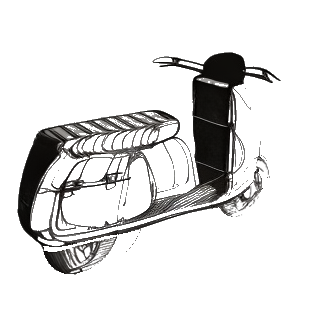
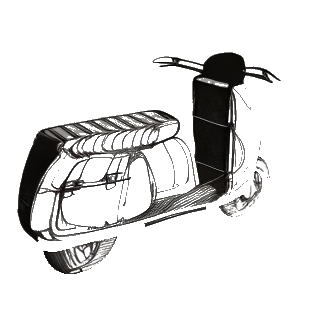
you need to remove slightly more mask

diff --git a/controlNet_process/18_output_final_image.py b/controlNet_process/18_output_final_image.py
@@ -12,8 +12,10 @@ Per view:
       - silhouette = alpha>0 OR non-white
       - resize silhouette to ORIGINAL bbox size
       - paste silhouette into canvas at ORIGINAL bbox location
-   B) Remove: paint white where removal mask is 1
-   C) Insert:
+   B) (Improved) Dilate removal mask by N pixels to remove halos
+   C) Remove: paint white where removal mask is 1
+   D) Save intermediate: removed_original.png
+   E) Insert:
       - load component: sketch/segmentation_original_image/view_{x}/{label}.png
       - resize component to NEW bbox size
       - paste into NEW bbox location
@@ -21,13 +23,14 @@ Per view:
         * if component has alpha, alpha composite directly
 
 Output:
+  sketch/final_results/view_{x}/removed_original.png
   sketch/final_results/view_{x}/final_image.png
 """
 
 import os
 import json
 import argparse
-from typing import Any, List, Tuple, Optional
+from typing import Any, List, Tuple, Dict
 
 import numpy as np
 
@@ -63,6 +66,12 @@ def save_image_rgb(path: str, img_rgb: np.ndarray) -> None:
     ensure_dir(os.path.dirname(path))
     Image.fromarray(img_rgb.astype(np.uint8), mode="RGB").save(path)
 
+def save_mask_l(path: str, mask_u8: np.ndarray) -> None:
+    """Optional: save a grayscale mask image (0..255)."""
+    from PIL import Image
+    ensure_dir(os.path.dirname(path))
+    Image.fromarray(mask_u8.astype(np.uint8), mode="L").save(path)
+
 def resize_bicubic(img: np.ndarray, new_w: int, new_h: int) -> np.ndarray:
     from PIL import Image
     pil = Image.fromarray(img)
@@ -74,6 +83,19 @@ def resize_nearest(mask_u8: np.ndarray, new_w: int, new_h: int) -> np.ndarray:
     im = Image.fromarray(mask_u8.astype(np.uint8), mode="L")
     im2 = im.resize((int(new_w), int(new_h)), resample=Image.NEAREST)
     return np.array(im2)
+
+def dilate_mask(mask_u8: np.ndarray, radius_px: int) -> np.ndarray:
+    """
+    Binary dilation for a uint8 mask (0..255). Returns uint8 (0 or 255).
+    Uses PIL MaxFilter (fast, no extra deps).
+    """
+    if radius_px <= 0:
+        return mask_u8
+    from PIL import Image, ImageFilter
+    k = int(2 * radius_px + 1)  # must be odd
+    im = Image.fromarray(((mask_u8 > 0).astype(np.uint8) * 255), mode="L")
+    im2 = im.filter(ImageFilter.MaxFilter(size=k))
+    return np.array(im2, dtype=np.uint8)
 
 def alpha_composite(dst_rgb: np.ndarray, src_rgba: np.ndarray, x0: int, y0: int) -> None:
     """
@@ -122,7 +144,7 @@ def paste_with_alpha(dst_rgb: np.ndarray, src_rgb: np.ndarray, alpha_u8: np.ndar
 def clamp(v: int, lo: int, hi: int) -> int:
     return max(lo, min(hi, v))
 
-def xyxy_float_to_int_box(box_xyxy: List[float], W: int, H: int) -> Tuple[int,int,int,int]:
+def xyxy_float_to_int_box(box_xyxy: List[float], W: int, H: int) -> Tuple[int, int, int, int]:
     x0, y0, x1, y1 = [float(x) for x in box_xyxy]
     xi0 = clamp(int(np.floor(x0)), 0, W)
     yi0 = clamp(int(np.floor(y0)), 0, H)
@@ -164,6 +186,8 @@ def main(
     seg_orig_root: str,
     edits_root: str,
     out_root: str,
+    removal_dilate_px: int = 5,
+    save_removal_mask: bool = False,
 ):
     for vid in range(num_views):
         view = f"view_{vid}"
@@ -172,6 +196,7 @@ def main(
         edits_path = os.path.join(edits_root, view, "bbox_edits.json")
         seg_view_dir = os.path.join(seg_orig_root, view)
 
+        # NEW: if any view input is missing, skip instead of crashing
         if not os.path.isfile(img_path):
             print(f"[skip] missing view image: {img_path}")
             continue
@@ -188,13 +213,17 @@ def main(
         edits = load_json(edits_path)
         changed = edits.get("changed_labels", [])
         if not isinstance(changed, list):
-            raise ValueError(f"Invalid schema: {edits_path} changed_labels must be list")
+            print(f"[skip] invalid schema: {edits_path} changed_labels must be list")
+            continue
+
+        out_dir = os.path.join(out_root, view)
+        ensure_dir(out_dir)
 
         # ---------- PASS 1: build full removal mask + remove ----------
         removal = np.zeros((H, W), dtype=np.uint8)
 
         # Store per-label silhouettes resized for NEW bbox (used for alpha if needed)
-        new_alpha_by_label = {}
+        new_alpha_by_label: Dict[str, np.ndarray] = {}
 
         for item in changed:
             if not isinstance(item, dict):
@@ -202,7 +231,11 @@ def main(
             label = str(item.get("label", ""))
             orig_box = item.get("original_box_xyxy", None)
             new_box = item.get("new_box_xyxy", None)
-            if not label or not (isinstance(orig_box, list) and len(orig_box) == 4) or not (isinstance(new_box, list) and len(new_box) == 4):
+            if (
+                not label
+                or not (isinstance(orig_box, list) and len(orig_box) == 4)
+                or not (isinstance(new_box, list) and len(new_box) == 4)
+            ):
                 continue
 
             mask_path = os.path.join(seg_view_dir, f"{label}_mask.png")
@@ -218,17 +251,23 @@ def main(
             sil_orig = resize_nearest(sil, bw, bh)
             removal[oy0:oy1, ox0:ox1] = np.maximum(removal[oy0:oy1, ox0:ox1], sil_orig)
 
-            # also prepare alpha for insertion at NEW bbox
+            # prepare alpha for insertion at NEW bbox
             nx0, ny0, nx1, ny1 = xyxy_float_to_int_box(new_box, W, H)
             nw, nh = nx1 - nx0, ny1 - ny0
             sil_new = resize_nearest(sil, nw, nh)
             new_alpha_by_label[label] = sil_new
 
+        # NEW: dilate removal mask to remove halo / outer layer
+        removal = dilate_mask(removal, radius_px=removal_dilate_px)
+
+        # Optional: save the removal mask itself
+        if save_removal_mask:
+            save_mask_l(os.path.join(out_dir, "removal_mask.png"), removal)
+
         # remove
         img_rgb[removal > 0] = np.array([255, 255, 255], dtype=np.uint8)
-        # --- SAVE INTERMEDIATE: after removal, before insertion ---
-        out_dir = os.path.join(out_root, view)
-        ensure_dir(out_dir)
+
+        # NEW: save intermediate after removal, before insertion
         removed_path = os.path.join(out_dir, "removed_original.png")
         save_image_rgb(removed_path, img_rgb)
         print(f"[ok] {view} -> {removed_path} (after removal)")
@@ -252,7 +291,7 @@ def main(
             if nw <= 0 or nh <= 0:
                 continue
 
-            comp = load_image_any(comp_path)  # RGB/RGBA
+            comp = load_image_any(comp_path)  # RGB/RGBA/L
             comp_rs = resize_bicubic(comp, nw, nh)
 
             if comp_rs.ndim == 3 and comp_rs.shape[-1] == 4:
@@ -263,18 +302,15 @@ def main(
                 comp_rgb = to_rgb(comp_rs)
                 alpha_u8 = new_alpha_by_label.get(label, None)
                 if alpha_u8 is None:
-                    # fallback: overwrite (not recommended, but better than nothing)
+                    # fallback: overwrite
                     x1 = min(W, nx0 + nw)
                     y1 = min(H, ny0 + nh)
                     img_rgb[ny0:y1, nx0:x1, :] = comp_rgb[:(y1 - ny0), :(x1 - nx0), :]
                 else:
                     paste_with_alpha(img_rgb, comp_rgb, alpha_u8, nx0, ny0)
 
-        out_dir = os.path.join(out_root, view)
-        ensure_dir(out_dir)
         out_path = os.path.join(out_dir, "final_image.png")
         save_image_rgb(out_path, img_rgb)
-
         print(f"[ok] {view} -> {out_path}")
 
 
@@ -285,6 +321,13 @@ if __name__ == "__main__":
     parser.add_argument("--seg_orig_root", default="sketch/segmentation_original_image")
     parser.add_argument("--edits_root", default="sketch/final_results")
     parser.add_argument("--out_root", default="sketch/final_results")
+
+    # NEW options
+    parser.add_argument("--removal_dilate_px", type=int, default=5,
+                        help="Dilation radius in pixels for removal mask (removes halo).")
+    parser.add_argument("--save_removal_mask", action="store_true",
+                        help="Also save removal_mask.png per view (debug).")
+
     args = parser.parse_args()
 
     main(
@@ -293,4 +336,6 @@ if __name__ == "__main__":
         seg_orig_root=args.seg_orig_root,
         edits_root=args.edits_root,
         out_root=args.out_root,
+        removal_dilate_px=args.removal_dilate_px,
+        save_removal_mask=args.save_removal_mask,
     )
